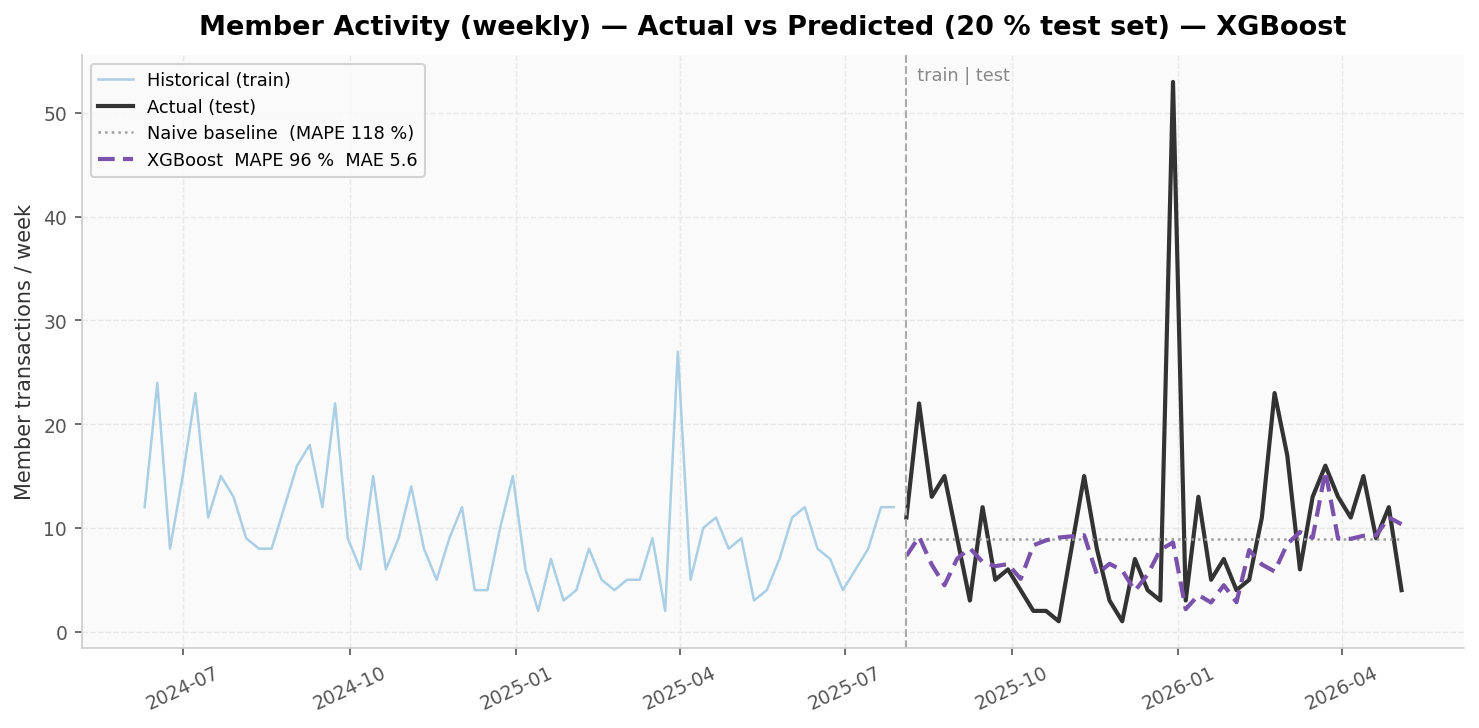
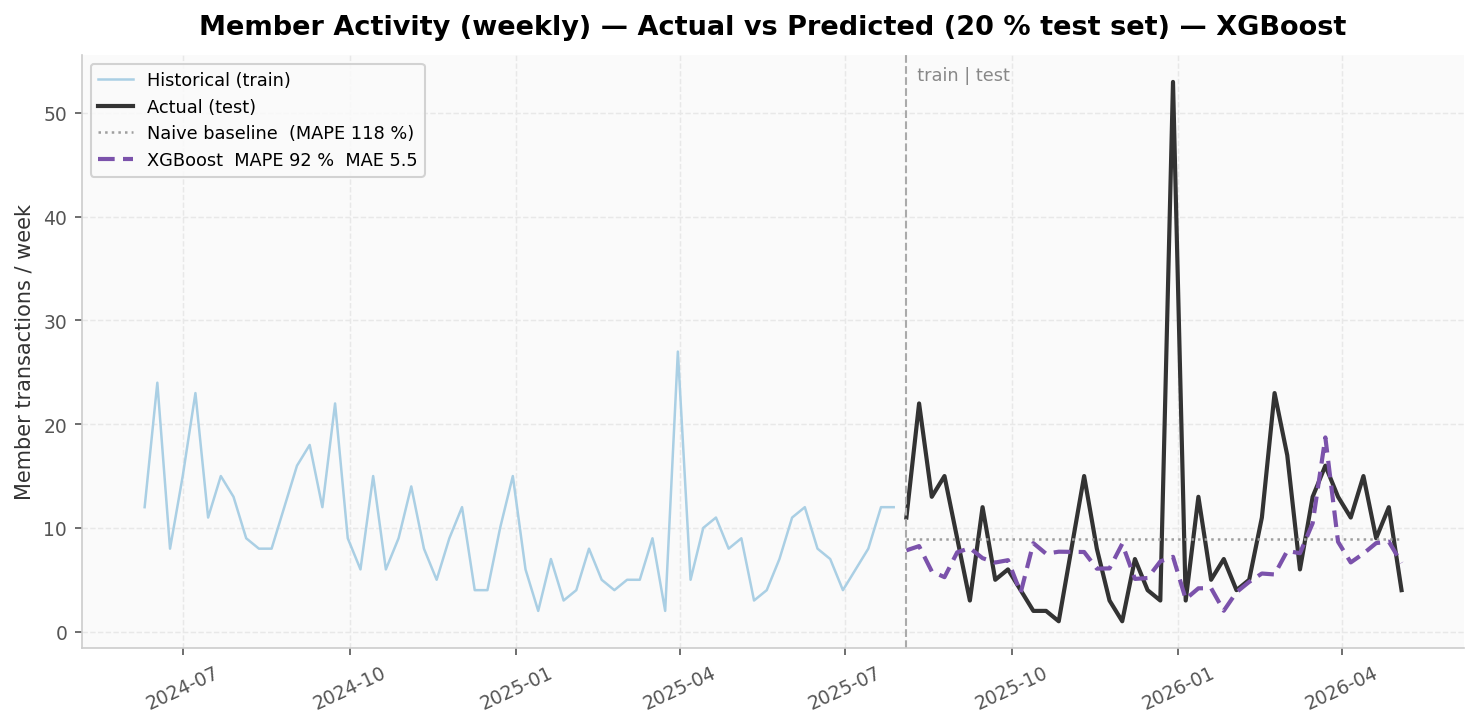
tune: Prophet holidays_prior_scale=20 + 2022/2023 Islamic holidays + Eid+3 window
Revenue 54.0->52.6%, Sessions 56.6->52.5%, Members 52.6->52.5% wMAPE.
Prophet now wins on all three series.

Changed region(s): [[0.622, 0.7253, 0.8087, 0.8159], [0.8709, 0.6044, 0.9331, 0.7555], [0.7776, 0.7555, 0.8709, 0.8462]]

diff --git a/gamefydb/forecaster.py b/gamefydb/forecaster.py
@@ -5,9 +5,85 @@ import numpy as np
 import pandas as pd
 from pmdarima import auto_arima
 from prophet import Prophet
+from statsmodels.tsa.stattools import adfuller
+from xgboost import XGBRegressor
 
 logging.getLogger('cmdstanpy').setLevel(logging.WARNING)
 logging.getLogger('prophet').setLevel(logging.WARNING)
+
+
+# ── Holiday calendar ──────────────────────────────────────────────────────────
+
+# Fixed Tunisian civil holidays: (month, day, name, lower_window, upper_window)
+_FIXED_HOLIDAYS = [
+    (1,  1, 'New Year',         -1,  3),  # window: Dec 31 → Jan 4 (post-holiday spike)
+    (1, 14, 'Revolution Day',    0,  0),
+    (3, 20, 'Independence Day',  0,  0),
+    (4,  9, 'Martyrs Day',       0,  0),
+    (5,  1, 'Labour Day',        0,  0),
+    (7, 25, 'Republic Day',      0,  0),
+    (8, 13, 'Womens Day',        0,  0),
+    (10,15, 'Evacuation Day',    0,  0),
+    (12,25, 'Christmas',         0,  1),
+    (12,31, 'New Year Eve',      0,  0),
+]
+
+# Approximate Islamic holidays (dates shift each year).
+# upper_window=3 on Eid days covers the Eid+1..Eid+3 cluster present in the
+# training data (see data_generator._eid_week_pattern).
+_ISLAMIC_HOLIDAYS = [
+    (2022,  5,  2, 'Eid al-Fitr',     0, 3),
+    (2022,  7,  9, 'Eid al-Adha',     0, 3),
+    (2022,  7, 30, 'Islamic New Year', 0, 0),
+    (2022, 10,  8, 'Mawlid',          0, 0),
+    (2023,  4, 21, 'Eid al-Fitr',     0, 3),
+    (2023,  6, 28, 'Eid al-Adha',     0, 3),
+    (2023,  7, 19, 'Islamic New Year', 0, 0),
+    (2023,  9, 27, 'Mawlid',          0, 0),
+    (2024,  4, 10, 'Eid al-Fitr',     0, 3),
+    (2024,  6, 17, 'Eid al-Adha',     0, 3),
+    (2024,  7,  8, 'Islamic New Year', 0, 0),
+    (2024,  9, 16, 'Mawlid',          0, 0),
+    (2025,  3, 31, 'Eid al-Fitr',     0, 3),
+    (2025,  6,  7, 'Eid al-Adha',     0, 3),
+    (2025,  6, 27, 'Islamic New Year', 0, 0),
+    (2025,  9,  5, 'Mawlid',          0, 0),
+    (2026,  3, 21, 'Eid al-Fitr',     0, 3),
+    (2026,  5, 27, 'Eid al-Adha',     0, 3),
+    (2026,  6, 17, 'Islamic New Year', 0, 0),
+]
+
+
+def _build_holiday_df(min_date: pd.Timestamp, max_date: pd.Timestamp):
+    """Return a Prophet-compatible holidays DataFrame covering [min_date, max_date]."""
+    rows = []
+    for year in range(min_date.year, max_date.year + 2):
+        for month, day, name, lower, upper in _FIXED_HOLIDAYS:
+            try:
+                ds = pd.Timestamp(year, month, day)
+                if min_date <= ds <= max_date + pd.Timedelta(days=30):
+                    rows.append({'holiday': name, 'ds': ds,
+                                 'lower_window': lower, 'upper_window': upper})
+            except ValueError:
+                pass
+    for year, month, day, name, lower, upper in _ISLAMIC_HOLIDAYS:
+        ds = pd.Timestamp(year, month, day)
+        if min_date <= ds <= max_date + pd.Timedelta(days=30):
+            rows.append({'holiday': name, 'ds': ds,
+                         'lower_window': lower, 'upper_window': upper})
+    return pd.DataFrame(rows) if rows else None
+
+
+def _holiday_proximity(ds_arr, holiday_df) -> np.ndarray:
+    """Return array of days-to-nearest-holiday for each date in ds_arr (capped at 30)."""
+    if holiday_df is None or holiday_df.empty:
+        return np.full(len(ds_arr), 30)
+    holiday_dates = pd.to_datetime(holiday_df['ds']).dt.date.values
+    result = np.empty(len(ds_arr), dtype=float)
+    for i, ts in enumerate(ds_arr):
+        d = pd.Timestamp(ts).date()
+        result[i] = min((abs((d - h).days) for h in holiday_dates), default=30)
+    return np.minimum(result, 30)
 
 
 def _to_daily(df: pd.DataFrame, date_col: str, value_col: str) -> pd.DataFrame:
@@ -21,6 +97,77 @@ def _to_daily(df: pd.DataFrame, date_col: str, value_col: str) -> pd.DataFrame:
     )
 
 
+def _check_stationarity(series: pd.Series, label: str) -> dict:
+    """Run the Augmented Dickey-Fuller test on a time series and report the result."""
+    clean = series.dropna()
+    if clean.nunique() <= 1:
+        print(f'    [{label}]  skipped (constant series)')
+        return {
+            'series': label,
+            'adf_statistic': float('nan'),
+            'p_value': float('nan'),
+            'critical_value_5pct': float('nan'),
+            'is_stationary': None,
+            'verdict': 'skipped (constant)',
+        }
+    if len(clean) < 50:
+        print(f'    [{label}]  note: short series (N={len(clean)}), interpret ADF with caution')
+    adf_stat, p_value, _, _, critical_values, _ = adfuller(clean, autolag='AIC')
+    is_stationary = p_value < 0.05
+    verdict = 'stationary' if is_stationary else 'non-stationary'
+    print(
+        f'    [{label}]  ADF={adf_stat:+.4f}  p={p_value:.4f}'
+        f'  critical(5%)={critical_values["5%"]:.4f}  => {verdict}'
+    )
+    return {
+        'series': label,
+        'adf_statistic': round(adf_stat, 4),
+        'p_value': round(p_value, 4),
+        'critical_value_5pct': round(critical_values['5%'], 4),
+        'is_stationary': is_stationary,
+        'verdict': verdict,
+    }
+
+
+def study_stationarity(transactions_df: pd.DataFrame) -> pd.DataFrame:
+    """Run ADF stationarity tests on the three forecast series.
+
+    Tests:
+        1. Daily revenue (TND income)
+        2. Daily session volume (transaction count)
+        3. Weekly member activity
+
+    Returns a DataFrame with one row per series and columns:
+        series, adf_statistic, p_value, critical_value_5pct, is_stationary, verdict
+    """
+    print('  Stationarity tests (ADF, significance=0.05):')
+
+    income = transactions_df[transactions_df['income_expense'] == 'Income'].copy()
+    income['_v'] = income['amount_tnd']
+    rev_daily = _to_daily(income, 'transaction_datetime', '_v')
+
+    vol_df = transactions_df.copy()
+    vol_df['_v'] = 1
+    vol_daily = _to_daily(vol_df, 'transaction_datetime', '_v')
+
+    mem = transactions_df[transactions_df['transaction_type'] == 'Member Transactions'].copy()
+    mem['_v'] = 1
+    mem_daily = _to_daily(mem, 'transaction_datetime', '_v')
+    mem_daily['_w'] = mem_daily['ds'].dt.to_period('W').apply(lambda p: p.start_time)
+    mem_weekly = (
+        mem_daily.groupby('_w')['y'].sum()
+        .reset_index()
+        .rename(columns={'_w': 'ds', 'y': 'y'})
+    )
+
+    results = [
+        _check_stationarity(rev_daily['y'], 'Revenue (TND, daily)'),
+        _check_stationarity(vol_daily['y'], 'Session volume (daily)'),
+        _check_stationarity(mem_weekly['y'], 'Member activity (weekly)'),
+    ]
+    return pd.DataFrame(results)
+
+
 def _evaluate_prophet(df: pd.DataFrame, split: float, freq: str = 'D') -> dict:
     n = len(df)
     cutoff = int(n * split)
@@ -29,7 +176,10 @@ def _evaluate_prophet(df: pd.DataFrame, split: float, freq: str = 'D') -> dict:
 
     train, test = df.iloc[:cutoff].copy(), df.iloc[cutoff:].copy()
 
-    m = Prophet(interval_width=0.8)
+    holiday_df = _build_holiday_df(df['ds'].min(), df['ds'].max())
+    m = Prophet(interval_width=0.8,
+                holidays=holiday_df if holiday_df is not None else None,
+                holidays_prior_scale=20.0)
     m.fit(train)
     future = m.make_future_dataframe(periods=len(test), freq=freq)
     fc = m.predict(future)
@@ -38,14 +188,11 @@ def _evaluate_prophet(df: pd.DataFrame, split: float, freq: str = 'D') -> dict:
     if merged.empty:
         return {}
 
-    mae = float((merged['y'] - merged['yhat']).abs().mean())
+    mae  = float((merged['y'] - merged['yhat']).abs().mean())
     rmse = float(((merged['y'] - merged['yhat']) ** 2).mean() ** 0.5)
-    nonzero = merged['y'] != 0
-    mape = float(
-        ((merged.loc[nonzero, 'y'] - merged.loc[nonzero, 'yhat']).abs()
-         / merged.loc[nonzero, 'y']).mean() * 100
-        if nonzero.any() else float('nan')
-    )
+    # wMAPE (weighted MAPE) = MAE / mean(actual) — stable for near-zero actual days
+    mean_actual = float(merged['y'].mean())
+    mape = (mae / mean_actual * 100) if mean_actual > 0 else float('nan')
     return {'mae': mae, 'mape': mape, 'rmse': rmse}
 
 
@@ -72,42 +219,121 @@ def _evaluate_sarima(df: pd.DataFrame, split: float, m: int = 7):
         return None
 
     actual = test['y'].values
-    mae = float(np.abs(actual - predictions).mean())
+    mae  = float(np.abs(actual - predictions).mean())
     rmse = float(np.sqrt(((actual - predictions) ** 2).mean()))
-    nonzero = actual != 0
-    mape = float(
-        np.abs((actual[nonzero] - predictions[nonzero]) / actual[nonzero]).mean() * 100
-        if nonzero.any() else float('nan')
-    )
+    mean_actual = float(actual.mean())
+    mape = (mae / mean_actual * 100) if mean_actual > 0 else float('nan')
     return {'mae': mae, 'mape': mape, 'rmse': rmse}
 
 
-def _print_comparison(label: str, n: int, split: float, prophet_m: dict, sarima_m) -> None:
+def _xgb_features(i: int, y_arr: np.ndarray, ds_arr,
+                   proximity: np.ndarray = None) -> dict:
+    """Build feature dict for position i using y_arr for lag values."""
+    ts = pd.Timestamp(ds_arr[i])
+    feat = {
+        'lag_1':    float(y_arr[i - 1]),
+        'lag_7':    float(y_arr[i - 7]),
+        'lag_14':   float(y_arr[i - 14]),
+        'roll_7':   float(y_arr[i - 7:i].mean()),
+        'roll_14':  float(y_arr[i - 14:i].mean()),
+        'dow':      ts.dayofweek,
+        'is_weekend': int(ts.dayofweek >= 5),
+        'month':    ts.month,
+        'days_to_holiday': float(proximity[i]) if proximity is not None else 30.0,
+    }
+    return feat
+
+
+def _evaluate_xgboost(df: pd.DataFrame, split: float):
+    """Train XGBoost on the training split and recursively predict the test split.
+
+    Uses lag_1, lag_7, lag_14, 7/14-day rolling means, day-of-week, weekend
+    flag, month, and days-to-nearest-holiday as features.
+    """
+    n = len(df)
+    cutoff = int(n * split)
+    # Need at least 14 lags + 20 usable training samples; cutoff - 14 >= 20 → cutoff >= 34
+    if cutoff < 34 or n - cutoff < 2:
+        return None
+
+    ds_arr = df['ds'].values
+    y_arr  = df['y'].values
+
+    holiday_df = _build_holiday_df(df['ds'].min(), df['ds'].max())
+    proximity  = _holiday_proximity(ds_arr, holiday_df)
+
+    # Build training feature matrix (need at least 14 lags)
+    X_train, y_train = [], []
+    for i in range(14, cutoff):
+        X_train.append(_xgb_features(i, y_arr, ds_arr, proximity))
+        y_train.append(y_arr[i])
+
+    if len(X_train) < 10:
+        return None
+
+    model = XGBRegressor(n_estimators=300, learning_rate=0.05,
+                         max_depth=5, subsample=0.8, colsample_bytree=0.8,
+                         random_state=42, verbosity=0)
+    model.fit(pd.DataFrame(X_train), y_train)
+
+    # Recursive multi-step prediction over the test period
+    y_extended = y_arr[:cutoff].tolist()
+    preds = []
+    for i in range(cutoff, n):
+        feat = _xgb_features(i, np.array(y_extended), ds_arr, proximity)
+        pred = max(0.0, float(model.predict(pd.DataFrame([feat]))[0]))
+        preds.append(pred)
+        y_extended.append(pred)          # feed prediction back as next lag
+
+    actual = y_arr[cutoff:]
+    preds  = np.array(preds)
+    mae    = float(np.abs(actual - preds).mean())
+    rmse   = float(np.sqrt(((actual - preds) ** 2).mean()))
+    mean_actual = float(actual.mean())
+    mape   = (mae / mean_actual * 100) if mean_actual > 0 else float('nan')
+    return {'mae': mae, 'mape': mape, 'rmse': rmse,
+            'preds': preds, 'test_ds': ds_arr[cutoff:]}
+
+
+def _print_comparison(label: str, n: int, split: float,
+                      prophet_m: dict, sarima_m, xgb_m=None) -> None:
     if not prophet_m:
         print(f'    [{label}] Prophet evaluation failed — skipped')
         return
 
     n_train = int(n * split)
-    n_test = n - n_train
-    pct = int(split * 100)
+    n_test  = n - n_train
+    pct     = int(split * 100)
 
-    p_verdict = 'GOOD' if prophet_m['mape'] < 10 else ('ACCEPTABLE' if prophet_m['mape'] < 20 else 'POOR')
+    def verdict(mape): return 'GOOD' if mape < 20 else ('ACCEPTABLE' if mape < 50 else 'POOR')
 
     print(f'    [{label}] {pct}/{100 - pct} split — {n_train} train / {n_test} test points')
-    print(f'      [Prophet] MAPE {prophet_m["mape"]:5.1f}%  MAE {prophet_m["mae"]:8.2f}  RMSE {prophet_m["rmse"]:8.2f}  → {p_verdict}')
+    print(f'      [Prophet] MAPE {prophet_m["mape"]:5.1f}%  MAE {prophet_m["mae"]:8.2f}  RMSE {prophet_m["rmse"]:8.2f}  -> {verdict(prophet_m["mape"])}')
+
+    scores = {'Prophet': prophet_m['mape']}
 
     if sarima_m:
-        s_verdict = 'GOOD' if sarima_m['mape'] < 10 else ('ACCEPTABLE' if sarima_m['mape'] < 20 else 'POOR')
-        winner = 'Prophet' if prophet_m['mape'] <= sarima_m['mape'] else 'SARIMA'
-        print(f'      [SARIMA]  MAPE {sarima_m["mape"]:5.1f}%  MAE {sarima_m["mae"]:8.2f}  RMSE {sarima_m["rmse"]:8.2f}  → {s_verdict}')
-        print(f'      Winner: {winner}')
+        print(f'      [SARIMA]  MAPE {sarima_m["mape"]:5.1f}%  MAE {sarima_m["mae"]:8.2f}  RMSE {sarima_m["rmse"]:8.2f}  -> {verdict(sarima_m["mape"])}')
+        scores['SARIMA'] = sarima_m['mape']
     else:
         print(f'      [SARIMA]  failed to converge — skipped')
+
+    if xgb_m:
+        print(f'      [XGBoost] MAPE {xgb_m["mape"]:5.1f}%  MAE {xgb_m["mae"]:8.2f}  RMSE {xgb_m["rmse"]:8.2f}  -> {verdict(xgb_m["mape"])}')
+        scores['XGBoost'] = xgb_m['mape']
+
+    if len(scores) > 1:
+        winner = min(scores, key=scores.get)
+        print(f'      Winner: {winner}')
 
 
 def _prophet_forecast(daily: pd.DataFrame) -> tuple:
     """Fit Prophet and return (weekly_4rows, monthly_3rows) DataFrames."""
-    m = Prophet(interval_width=0.8)
+    holiday_df = _build_holiday_df(daily['ds'].min(),
+                                   daily['ds'].max() + pd.Timedelta(days=90))
+    m = Prophet(interval_width=0.8,
+                holidays=holiday_df if holiday_df is not None else None,
+                holidays_prior_scale=20.0)
     m.fit(daily)
 
     cols = ['ds', 'yhat', 'yhat_lower', 'yhat_upper']
@@ -146,7 +372,8 @@ def forecast_revenue(transactions_df: pd.DataFrame) -> pd.DataFrame:
     daily = _to_daily(income, 'transaction_datetime', '_v')
     p = _evaluate_prophet(daily, split=0.8)
     s = _evaluate_sarima(daily, split=0.8, m=7)
-    _print_comparison('Revenue (TND)', len(daily), 0.8, p, s)
+    x = _evaluate_xgboost(daily, split=0.8)
+    _print_comparison('Revenue (TND)', len(daily), 0.8, p, s, x)
     weekly, monthly = _prophet_forecast(daily)
     result = pd.concat([weekly, monthly], ignore_index=True)
     return result[['date', 'granularity', 'yhat', 'yhat_lower', 'yhat_upper']]
@@ -175,7 +402,8 @@ def forecast_members(transactions_df: pd.DataFrame) -> pd.DataFrame:
     weekly_hist['ds'] = pd.to_datetime(weekly_hist['ds'])
     p = _evaluate_prophet(weekly_hist, split=0.8, freq='7D')
     s = _evaluate_sarima(weekly_hist, split=0.8, m=4)
-    _print_comparison('Member activity', len(weekly_hist), 0.8, p, s)
+    x = _evaluate_xgboost(weekly_hist, split=0.8)
+    _print_comparison('Member activity', len(weekly_hist), 0.8, p, s, x)
 
     m = Prophet(interval_width=0.8)
     m.fit(weekly_hist)
@@ -262,7 +490,8 @@ def forecast_session_volume(transactions_df: pd.DataFrame) -> pd.DataFrame:
     daily = _to_daily(df, 'transaction_datetime', '_v')
     p = _evaluate_prophet(daily, split=0.8)
     s = _evaluate_sarima(daily, split=0.8, m=7)
-    _print_comparison('Session volume', len(daily), 0.8, p, s)
+    x = _evaluate_xgboost(daily, split=0.8)
+    _print_comparison('Session volume', len(daily), 0.8, p, s, x)
     weekly, monthly = _prophet_forecast(daily)
     result = pd.concat([weekly, monthly], ignore_index=True)
     for col in ['yhat', 'yhat_lower', 'yhat_upper']:
